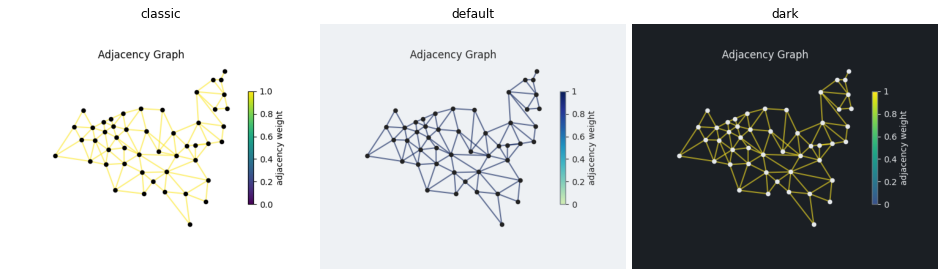
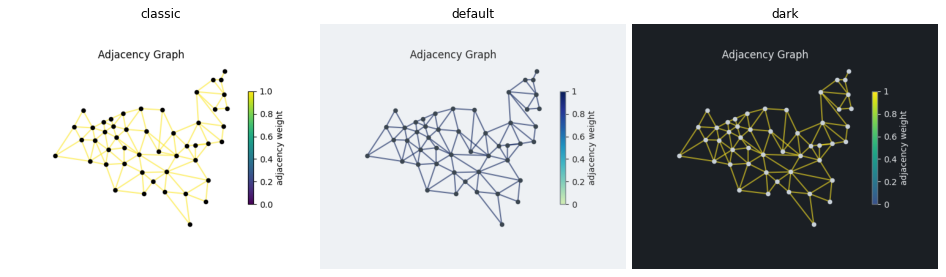
Update overlay colors page

diff --git a/plot-style-overlays/index.html b/plot-style-overlays/index.html
@@ -84,7 +84,7 @@
 <dt>Base</dt><dd>main</dd>
 <dt>Created</dt><dd>2026-10-16 20:00</dd>
 <dt>Before</dt><dd>main @ 3055caa</dd>
-<dt>After</dt><dd>feat/plot-style-overlays @ 6b1c55b</dd>
+<dt>After</dt><dd>feat/plot-style-overlays @ ced8bab</dd>
 <dt>Inputs</dt><dd>bundled US states; a population-weighted Voronoi cartogram (RasterBackend 256, 100 iterations); a circle-packing symbol cartogram.</dd>
 </dl>
 <p class="desc">PlotStyle gets series_color, accent_color, positive_color and highlight_color for the fixed colors of the diagnostic overlays of the Voronoi and symbol plots. Default and dark set them; classic keeps the former colors.</p>
@@ -103,8 +103,8 @@
 <h2>Checks</h2>
 <p>Suite 1274 passed, ruff and mypy clean. The topology repair overlays were not exercised by the comparison (the test case has no violations); the replaced literals were checked by reading the diff.</p>
 <div class="figure">
-<img src="fig_adjacency_nodes.png" alt="Nodes use the text color of the style.">
-<p class="caption">Nodes use the text color of the style.</p>
+<img src="fig_adjacency_nodes.png" alt="Nodes use the stroke color of the style.">
+<p class="caption">Nodes use the stroke color of the style.</p>
 </div><div class="figure">
 <img src="fig_convergence.png" alt="Convergence curve (series color) and final value (accent color).">
 <p class="caption">Convergence curve (series color) and final value (accent color).</p>

diff --git a/plot-style-overlays/summary.md b/plot-style-overlays/summary.md
@@ -11,7 +11,7 @@ base: main
 date: 2026-10-16 20:00
 related: plot-style-symbol, plot-style-voronoi-proportional, style-system
 before: main @ 3055caa
-after: feat/plot-style-overlays @ 6b1c55b
+after: feat/plot-style-overlays @ ced8bab
 inputs: bundled US states; a population-weighted Voronoi cartogram (RasterBackend 256, 100 iterations); a circle-packing symbol cartogram.
 ---
 
@@ -26,7 +26,7 @@ figure: fig_topology.png — Satellite cells use the highlight color; the base c
 ## Symbol
 
 figure: fig_symbol_displacement.png — Displacement arrows use the accent color (yellow in dark, for contrast with the blue circles).
-figure: fig_adjacency_nodes.png — Nodes use the text color of the style.
+figure: fig_adjacency_nodes.png — Nodes use the stroke color of the style.
 
 figure: fig_velocity.png — `plot_velocity_field`: the arrows take the accent color; classic draws them black (they were white on the white axes, invisible).
 figure: fig_linewidth_legend.png — Line width by population without an edge color: the edge is the stroke color of the style, the widths follow the `"auto"` scale of the style (log here), and the legend keys are spaced in the scaled units.
